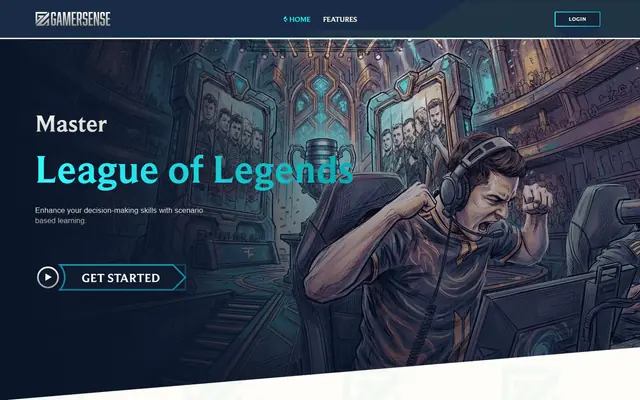
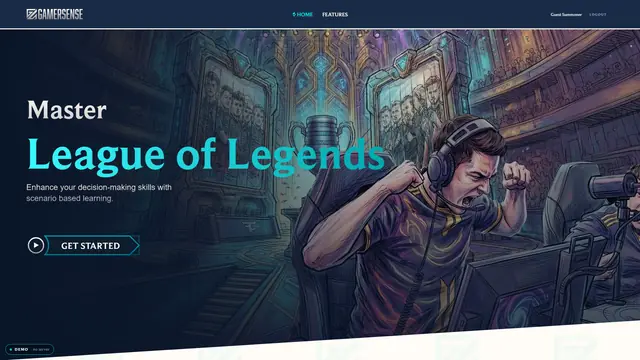
GamerSense: link the live demo and use screenshots from it
- Add the live demo link (backend-free demo build)
- Replace the locally captured screenshots with fresh ones from the
  live demo, including gameplay: an answered scenario, Guess the Rank,
  its results, and the profile with XP level
- Update copy for newer features: 25-second Blitz, XP levels, 20-second
  duel rounds, admin user management, and the demo build itself

diff --git a/src/i18n/ar.ts b/src/i18n/ar.ts
@@ -358,23 +358,24 @@ export const ar: Translations = {
       overview: [
         'منصة تدريب على حسّ اللعب في League of Legends مستوحاة من chess.com. تتحول مواقف حقيقية من اللعبة (التحركات، والتبادلات، والمعارك، والقرارات الكبرى) إلى اختبارات وتحديات موقوتة ومباريات مباشرة.',
         'تطبيق متكامل: واجهة React، وخادم Fastify مع Socket.io، وPostgreSQL عبر Prisma، وRedis، ولوحة إدارة منفصلة لإدارة المحتوى.',
+        'تعمل النسخة المباشرة دون خادم: نسخة تجريبية تُجيب على طلبات الواجهة البرمجية داخل المتصفح من بيانات البذرة الحقيقية، فتعمل كل الأوضاع الفردية ومستويات الخبرة ولوحة الصدارة كضيف. أما المباريات المباشرة فتحتاج خادم اللعبة، لذلك تشرح النسخة التجريبية ذلك بدلًا منها.',
       ],
       features: [
         'اختبارات مواقف لكل مسار مع تلميحات وشرح',
-        'وضع Blitz بمؤقت ١٠ ثوانٍ',
-        'خمّن الرتبة من مقاطع اللعب',
+        'وضع Blitz بمؤقت ٢٥ ثانية',
+        'خمّن الرتبة من مقاطع اللعب، مع توزيع تصويت المجتمع',
         'مباريات مباشرة ١ ضد ١ في الأسئلة وتخمين الرتبة عبر رابط دعوة',
         'مكتبة أبطال ببيانات Data Dragon المحدّثة',
-        'ملفات شخصية برتبة لكل مسار ونقاط ولوحة صدارة',
+        'مستويات خبرة مع إشعار عند الترقية، ورتبة لكل مسار، ولوحة صدارة',
       ],
       highlights: [
         {
           title: 'الخادم هو مرجع المباراة',
-          body: 'خادم Socket.io يدير حالة المباراة: يرسل كل جولة، ويحسب الإجابات، ويحدد الفائز (بما في ذلك التعادل)، ويسمح بإعادة الاتصال والاستكمال وطلب مباراة جديدة.',
+          body: 'خادم Socket.io يدير حالة المباراة: يرسل كل جولة بمؤقت ٢٠ ثانية، ويحسب الإجابات، ويحدد الفائز (بما في ذلك التعادل)، ويسمح بإعادة الاتصال والاستكمال وطلب مباراة جديدة. وتُحفظ رموز الدعوة في Redis.',
         },
         {
-          title: 'Redis في المكان المناسب',
-          body: 'رموز الدعوة قصيرة العمر وذاكرة لوحة الصدارة المؤقتة في Redis، لتخفيف الضغط عن قاعدة البيانات.',
+          title: 'نسخة تجريبية بلا خادم',
+          body: 'بخيار بناء واحد، يُجيب عميل الواجهة البرمجية على الطلبات داخل المتصفح بنفس قواعد الخادم (حساب النقاط، والرتب، ومنحنى الخبرة) وبيانات البذرة، فيمكن تجربة التطبيق دون تشغيل أي خادم.',
         },
         {
           title: 'دائمًا على آخر تحديث',
@@ -382,12 +383,15 @@ export const ar: Translations = {
         },
         {
           title: 'إدارة المحتوى بشكل منفصل',
-          body: 'تطبيق إدارة منفصل بصلاحيات حسب الدور لإنشاء الأسئلة، وإدارة جولات تخمين الرتبة، وعرض المستخدمين.',
+          body: 'تطبيق إدارة منفصل بصلاحيات حسب الدور لإدارة الأسئلة وجولات تخمين الرتبة، وتغيير أسماء المستخدمين وأدوارهم أو حذفهم.',
         },
       ],
       shots: {
         landing: 'الصفحة الرئيسية',
-        features: 'نظرة على المزايا',
+        scenarios: 'سؤال مواقف بعد الإجابة مع إبراز القرار الصحيح',
+        'guess-rank': 'خمّن الرتبة: مشاهدة مقطع واختيار رتبة',
+        'guess-rank-results': 'نتيجة تخمين الرتبة وتوزيع التصويت',
+        profile: 'الملف الشخصي مع مستوى الخبرة والإحصاءات',
         'knowledge-hub': 'مكتبة الأبطال',
         champion: 'صفحة تفاصيل بطل',
         'mobile-landing': 'الصفحة الرئيسية على الهاتف',

diff --git a/src/i18n/en.ts b/src/i18n/en.ts
@@ -357,23 +357,24 @@ export const en: Translations = {
       overview: [
         'A chess.com-style trainer for League of Legends game sense. Real in-game situations (rotations, trades, fights and macro decisions) become quizzes, timed drills and head-to-head matches.',
         'It is a full-stack app: a React frontend, a Fastify API with a Socket.io server, PostgreSQL through Prisma, Redis, and a separate admin panel for managing content.',
+        'The live demo runs without the backend. A demo build answers the API in the browser from the real seed data, so every single-player mode, XP levels and the leaderboard work as a guest. Live duels need the game server, so the demo explains that instead.',
       ],
       features: [
         'Scenario quizzes per lane, with hints and explanations',
-        'Blitz mode on a 10-second timer',
-        'Guess the Rank from gameplay clips',
+        'Blitz mode on a 25-second timer',
+        'Guess the Rank from gameplay clips, with a community vote breakdown',
         'Real-time 1v1 trivia and Guess the Rank duels via invite link',
         'Champion knowledge hub on live Data Dragon data',
-        'Profiles with per-lane ranks, points and a leaderboard',
+        'XP levels with a level-up popup, per-lane ranks and a leaderboard',
       ],
       highlights: [
         {
           title: 'Server-authoritative duels',
-          body: 'The Socket.io server owns the match state: it sends each round, scores answers, decides the winner (including draws) and lets players reconnect, resume and rematch.',
+          body: 'The Socket.io server owns the match state: it sends each round on a 20-second timer, scores answers, decides the winner (including draws) and lets players reconnect, resume and rematch. Invite tokens live in Redis.',
         },
         {
-          title: 'Redis where it counts',
-          body: 'Short-lived invite tokens and the leaderboard cache live in Redis, keeping hot paths off the database.',
+          title: 'Backend-free demo build',
+          body: 'With one build flag, the API client answers requests in the browser using the backend’s own rules (scoring, tiers, the XP curve) and seed data, so the app can be tried without running any server.',
         },
         {
           title: 'Always on the latest patch',
@@ -381,12 +382,15 @@ export const en: Translations = {
         },
         {
           title: 'Content managed separately',
-          body: 'A separate admin app with role-based access is used to create questions, manage Guess the Rank rounds and view users.',
+          body: 'A separate admin app with role-based access is used to manage questions and Guess the Rank rounds, and to rename, re-role or remove users.',
         },
       ],
       shots: {
         landing: 'Landing page',
-        features: 'Feature overview',
+        scenarios: 'Scenario answered, with the correct call highlighted',
+        'guess-rank': 'Guess the Rank: watching a clip and picking a rank',
+        'guess-rank-results': 'Guess the Rank results and vote breakdown',
+        profile: 'Profile with XP level and stats',
         'knowledge-hub': 'Champion knowledge hub',
         champion: 'Champion detail page',
         'mobile-landing': 'Landing page on mobile',

diff --git a/src/data/projects.ts b/src/data/projects.ts
@@ -57,11 +57,13 @@ export const projects: readonly Project[] = [
   },
   {
     slug: 'gamersense',
+    // Backend-free demo build (the `demo` branch); live duels need the real server.
+    liveUrl: 'https://gamersense-touka.vercel.app',
     repoUrl: 'https://github.com/tokafares/Gamer-Sense',
     concept: false,
     tech: ['React', 'TypeScript', 'Vite', 'Tailwind CSS', 'Framer Motion', 'Zustand', 'Fastify', 'Socket.io', 'Prisma', 'PostgreSQL', 'Redis'],
     cover: 'landing',
-    screenshots: ['landing', 'features', 'knowledge-hub', 'champion', 'mobile-landing'],
+    screenshots: ['landing', 'scenarios', 'guess-rank', 'guess-rank-results', 'profile', 'knowledge-hub', 'champion', 'mobile-landing'],
   },
 ]
 

diff --git a/src/data/screenshots.gen.ts b/src/data/screenshots.gen.ts
@@ -37,17 +37,33 @@ export const screenshotSizes = {
       "width": 1440,
       "height": 900
     },
+    "guess-rank-results": {
+      "width": 1440,
+      "height": 900
+    },
+    "guess-rank": {
+      "width": 1440,
+      "height": 900
+    },
     "knowledge-hub": {
       "width": 1440,
       "height": 900
     },
     "landing": {
-      "width": 1296,
-      "height": 810
+      "width": 1600,
+      "height": 900
     },
     "mobile-landing": {
       "width": 750,
       "height": 1624
+    },
+    "profile": {
+      "width": 1440,
+      "height": 900
+    },
+    "scenarios": {
+      "width": 1440,
+      "height": 900
     }
   },
   "nour-clinic": {
